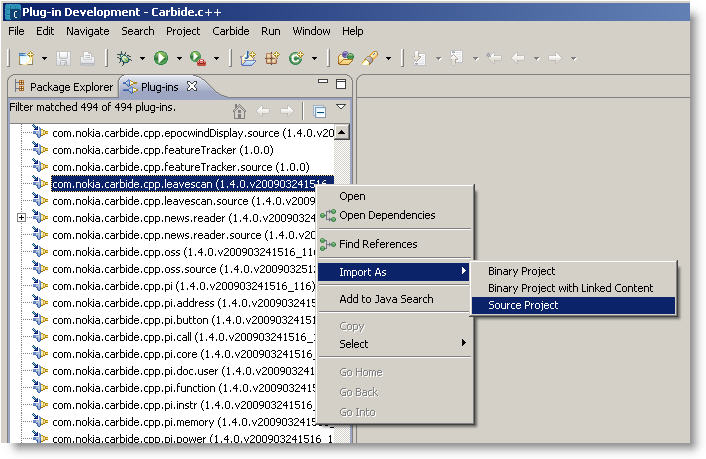
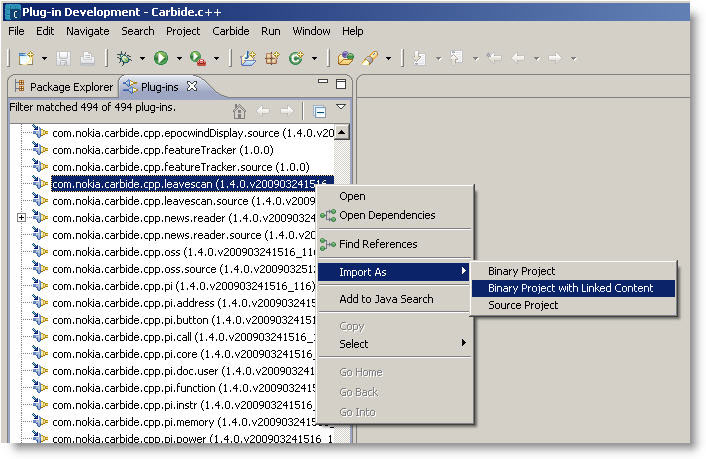
BUG #9797 - updated setup instructions to import using Binary Project with Linked Content versus Source Project
--HG--
branch : RCL_2_2

Changed region(s): [[0.6544, 0.61, 0.966, 0.7015]]

diff --git a/carbidesdk/com.nokia.carbide.cpp.sdk.doc.user/html/gettingStarted/env_setup.htm b/carbidesdk/com.nokia.carbide.cpp.sdk.doc.user/html/gettingStarted/env_setup.htm
@@ -26,7 +26,7 @@ to develop a plugin against the Carbide.c++ development environment.</p>
   <li>Switch to the <strong>Plug-in Development</strong> perspective. </li>
   <li>Select the <strong>Plug-ins</strong> view. </li>
   <li>Select the binary plug-in you want view the source of. Don't select the *source feature.</li>
-  <li>Right-click on the plug-in you want to import and select <strong>Import As &gt; Source Project</strong>. For example, the <span class="style1">com.nokia.carbide.cpp.leavescan</span> plug-in as shown below.<br>
+  <li>Right-click on the plug-in you want to import and select <strong>Import As &gt; Binary Project with Linked Content</strong>. For example, the <span class="style1">com.nokia.carbide.cpp.leavescan</span> plug-in as shown below. This  enables you to view the sources for the plug-in but not modify them.<br>
     <br>
   <img src="../img/import_source_project.jpg" width="706" height="459">  </li>
   <li>Now you can return to the <strong>Package Explorer</strong> view and navigate the source files for the imported plug-in. It should look like a normal plug-in project:<br>
@@ -36,6 +36,6 @@ to develop a plugin against the Carbide.c++ development environment.</p>
   You can now <a href="launchconfig.htm">create a launch configuration</a> and debug Carbide. </li>
 </ol>
 <div id="footer">Copyright &copy; 2009 Nokia Corporation and/or its subsidiary(-ies). All rights reserved. <br>License: <a href="http://www.eclipse.org/legal/epl-v10.html">http://www.eclipse.org/legal/epl-v10.html</a></div>
-</div>
+
 </body>
 </html>
